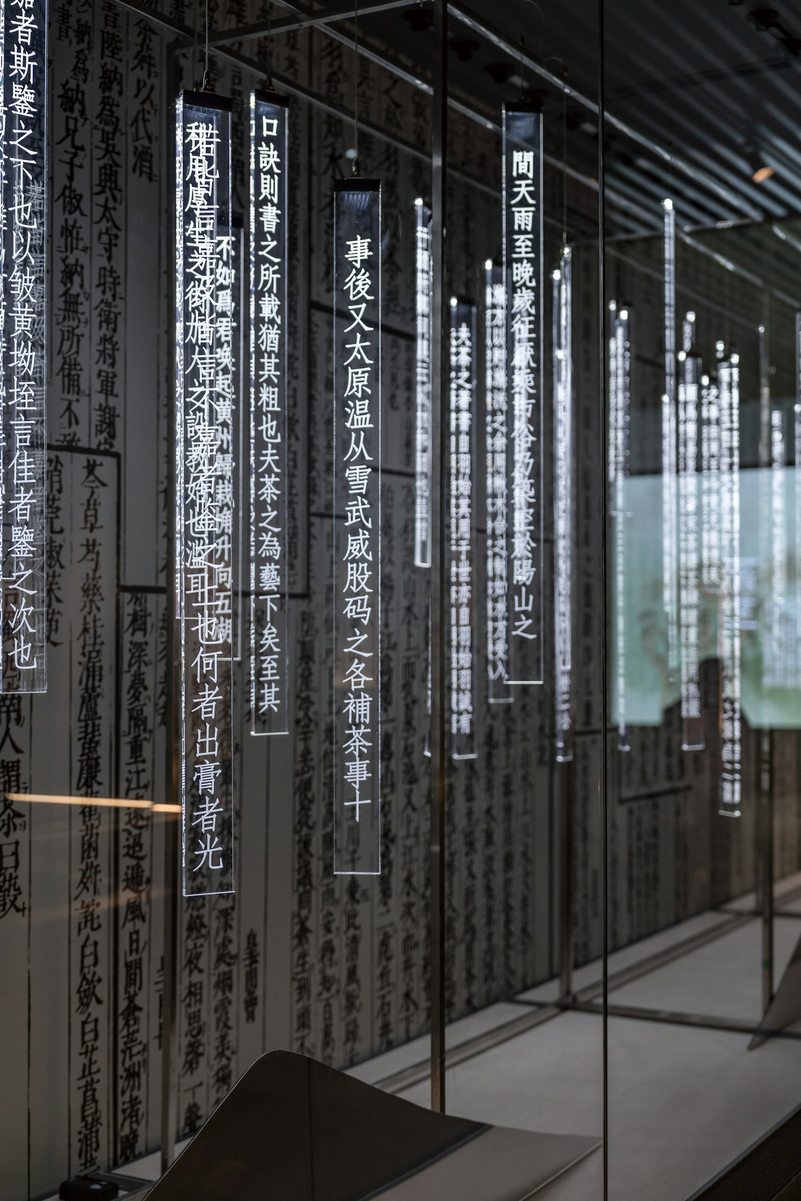
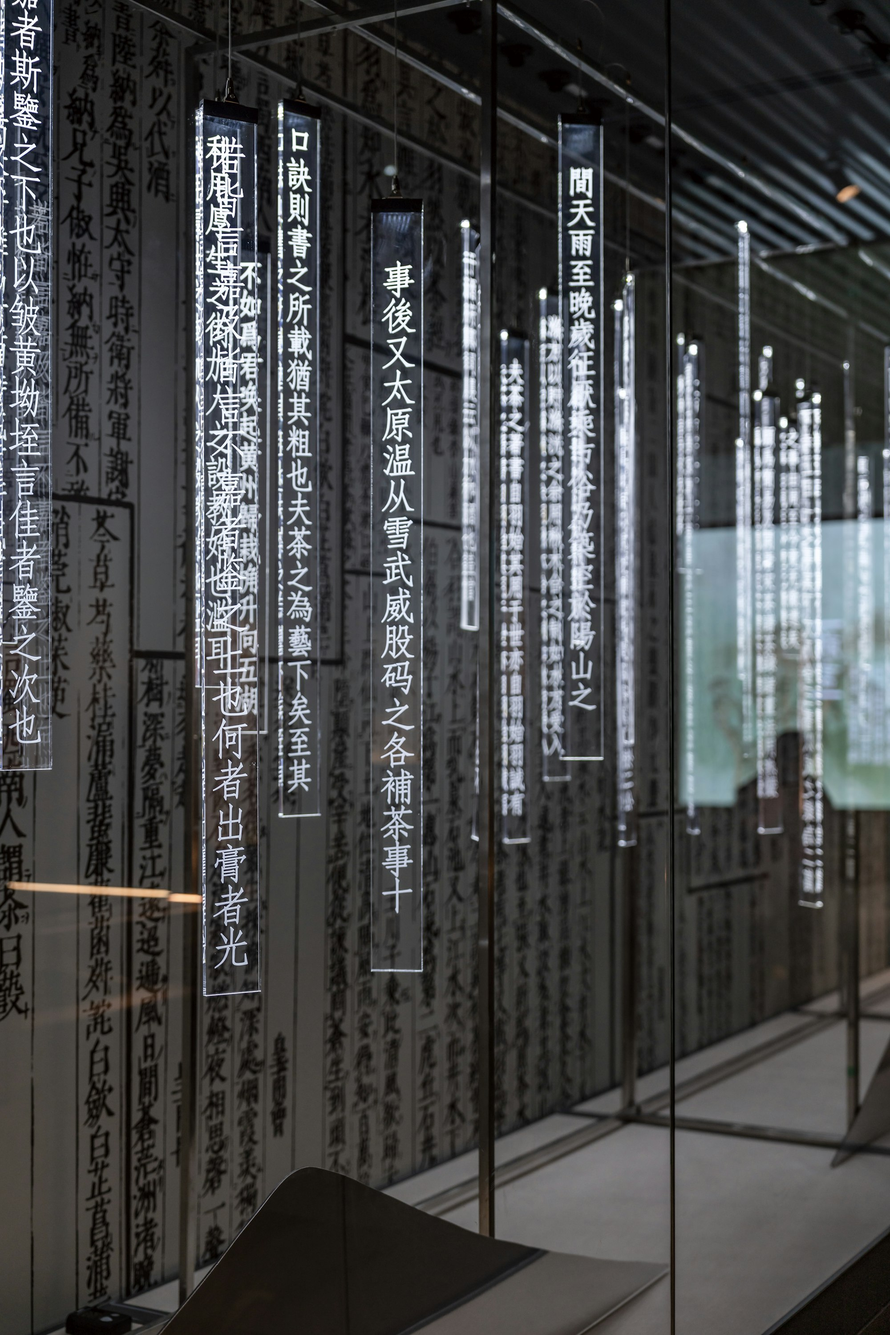
Rebuild layout to match template-style image sections

diff --git a/styles.css b/styles.css
@@ -52,6 +52,24 @@ a{ color:inherit; }
   background:linear-gradient(to bottom, rgba(246,248,252,.92), rgba(246,248,252,.70));
   border-bottom:1px solid var(--border);
 }
+.topbar--overlay{
+  position:absolute;
+  left:0;
+  right:0;
+  top:0;
+  background:linear-gradient(to bottom, rgba(2,6,23,.55), rgba(2,6,23,0));
+  border-bottom:1px solid rgba(255,255,255,.12);
+  backdrop-filter: blur(10px);
+}
+.topbar--overlay .brand .name,
+.topbar--overlay .nav a{
+  color:rgba(255,255,255,.92);
+}
+.topbar--overlay .brand .tag{ color:rgba(255,255,255,.72); }
+.topbar--overlay .nav a:hover, .topbar--overlay .nav a:focus-visible{
+  border-color:rgba(255,255,255,.22);
+  background:rgba(255,255,255,.10);
+}
 .topbar-inner{
   display:flex;
   align-items:center;
@@ -144,6 +162,53 @@ a{ color:inherit; }
   grid-template-columns: 1.25fr .75fr;
   gap:18px;
   align-items:end;
+}
+
+.promo-grid{
+  display:grid;
+  grid-template-columns: 1fr 1fr;
+  gap:14px;
+}
+.promo{
+  border-radius:var(--radius);
+  overflow:hidden;
+  border:1px solid rgba(15,23,42,.12);
+  display:grid;
+  grid-template-columns: 1.05fr .95fr;
+  background:rgba(255,255,255,.92);
+  box-shadow:var(--shadow-sm);
+  min-height:240px;
+}
+.promo--blue{
+  background:linear-gradient(135deg, rgba(37,99,235,.12), rgba(27,58,107,.08));
+}
+.promo--dark{
+  background:linear-gradient(135deg, rgba(2,6,23,.82), rgba(2,6,23,.68));
+  border-color:rgba(2,6,23,.18);
+}
+.promo--dark .promo-copy{ color:rgba(255,255,255,.92); }
+.promo--dark .eyebrow{ color:rgba(255,255,255,.70); }
+.promo--dark .promo-text{ color:rgba(255,255,255,.78); }
+.promo-copy{
+  padding:18px;
+  display:flex;
+  flex-direction:column;
+  gap:10px;
+}
+.promo-title{
+  margin:0;
+  font-size:18px;
+  letter-spacing:-.2px;
+}
+.promo-text{
+  margin:0;
+  color:var(--muted);
+}
+.promo-media img{
+  width:100%;
+  height:100%;
+  object-fit:cover;
+  display:block;
 }
 .hero2-content{
   color:rgba(255,255,255,.95);
@@ -346,6 +411,22 @@ section{ scroll-margin-top:84px; }
   grid-template-columns: 1fr 1fr;
   gap:14px;
 }
+
+.image-strip{
+  display:grid;
+  grid-template-columns: 1fr 1fr 1fr;
+  gap:12px;
+  margin-top:14px;
+}
+.image-strip img{
+  width:100%;
+  height:180px;
+  object-fit:cover;
+  display:block;
+  border-radius:16px;
+  border:1px solid rgba(15,23,42,.12);
+  box-shadow:var(--shadow-sm);
+}
 .split-card{
   border-radius:var(--radius);
   border:1px solid rgba(15,23,42,.12);
@@ -439,6 +520,63 @@ section{ scroll-margin-top:84px; }
   background:linear-gradient(180deg, rgba(255,255,255,.96), rgba(240,244,251,.75));
   padding:16px;
 }
+
+.cta-band{
+  margin:20px 0 10px;
+  background:linear-gradient(90deg, rgba(27,58,107,.12), rgba(37,99,235,.10));
+  border-top:1px solid rgba(15,23,42,.08);
+  border-bottom:1px solid rgba(15,23,42,.08);
+  padding:26px 0;
+}
+.cta-band-inner{
+  display:flex;
+  flex-wrap:wrap;
+  align-items:center;
+  justify-content:space-between;
+  gap:14px;
+}
+.cta-band-copy h2{
+  margin:0 0 6px;
+  font-size:20px;
+}
+.cta-band-copy p{
+  margin:0;
+  color:var(--muted);
+  max-width:70ch;
+}
+.cta-band-actions{
+  display:flex;
+  flex-wrap:wrap;
+  gap:10px;
+}
+
+.footer{
+  margin-top:26px;
+  background:linear-gradient(180deg, rgba(2,6,23,.92), rgba(2,6,23,.96));
+  color:rgba(255,255,255,.90);
+}
+.footer-grid{
+  padding:34px 0 18px;
+  display:grid;
+  grid-template-columns: 1.2fr 1fr 1fr;
+  gap:18px;
+}
+.footer-brand{ font-weight:850; letter-spacing:.2px; }
+.footer-head{ font-weight:800; margin-bottom:10px; }
+.footer-muted{ color:rgba(255,255,255,.72); font-size:13px; }
+.footer-link{
+  display:block;
+  color:rgba(255,255,255,.88);
+  text-decoration:none;
+  padding:5px 0;
+}
+.footer-link:hover{ text-decoration:underline; }
+.footer-bottom{
+  border-top:1px solid rgba(255,255,255,.10);
+  padding:14px 0 18px;
+  color:rgba(255,255,255,.68);
+  font-size:13px;
+}
 .service h3{ margin:0 0 8px; font-size:15px; }
 .service p{ margin:0; color:var(--muted); font-size:14px; }
 
@@ -515,6 +653,9 @@ footer{
   .kv{ grid-template-columns: 110px 1fr; }
   .split{ grid-template-columns:1fr; }
   .split-card{ grid-template-columns: 1.1fr .9fr; }
+  .promo-grid{ grid-template-columns:1fr; }
+  .promo{ grid-template-columns: 1.1fr .9fr; }
+  .footer-grid{ grid-template-columns:1fr; }
 }
 @media (max-width: 820px){
   .grid-3{ grid-template-columns:1fr; }
@@ -524,6 +665,8 @@ footer{
   .hero2{ min-height:520px; padding:34px 0; }
   .hero2-cards{ grid-template-columns:1fr; }
   .split-card{ grid-template-columns:1fr; }
+  .promo{ grid-template-columns:1fr; }
+  .image-strip{ grid-template-columns:1fr; }
 }
 
 @media (prefers-reduced-motion: reduce){
